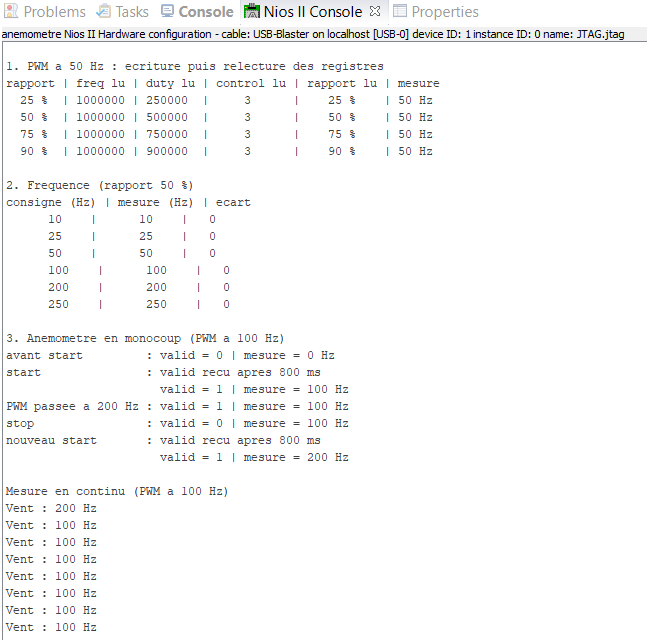
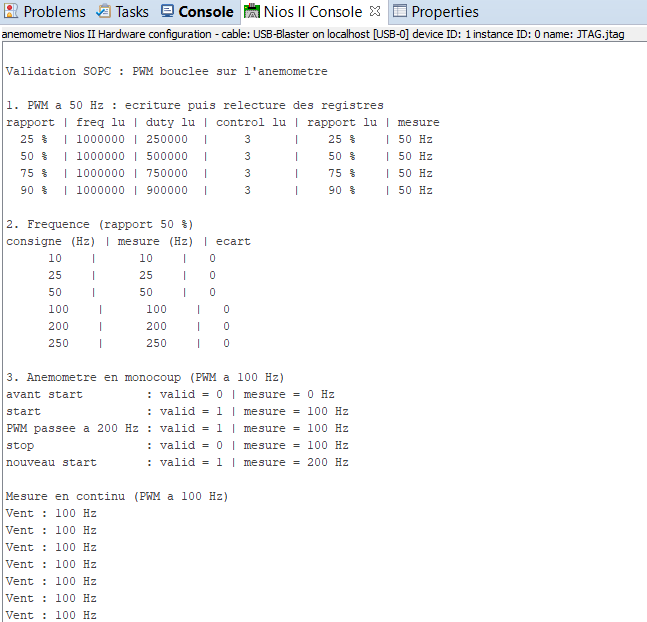
BE 2026 : monocoup sans artefact et console finale
- main.c : attente du filtre anti-rebond apres la remise a zero, plus d'affichage du temps
- Compte rendu : nouvelle console, comportement des LED pendant le test

Changed region(s): [[0.0, 0.0, 1.0, 1.0]]

diff --git a/BE_2026/SOPC/main.c b/BE_2026/SOPC/main.c
@@ -58,8 +58,8 @@ unsigned int mesurer(void)
     return *ane_code & ANE_DATA;
 }
 
-/* attend le bit valid (100 ms par essai, 3 s au plus) et renvoie le temps en ms */
-int attendre_valid(void)
+/* attend le bit valid (3 s au plus) */
+void attendre_valid(void)
 {
     int n = 0;
 
@@ -67,7 +67,6 @@ int attendre_valid(void)
         usleep(100000);
         n++;
     }
-    return n * 100;
 }
 
 void afficher_code(const char *texte)
@@ -85,7 +84,7 @@ int main()
     unsigned int rapports[4]  = {25, 50, 75, 90};
     unsigned int consignes[6] = {10, 25, 50, 100, 200, 250};
     unsigned int freq_lu, duty_lu, control_lu, mesure;
-    int i, temps;
+    int i;
 
     alt_putstr("\nValidation SOPC : PWM bouclee sur l'anemometre\n");
 
@@ -138,14 +137,13 @@ int main()
     *ane_config = 0;
     usleep(1000);
     *ane_config = ANE_RAZ_N;
+    usleep(10000);                        /* le filtre anti-rebond (1 ms) se cale sur l'entree */
     (void)*ane_code;                      /* efface un valid memorise */
     afficher_code("avant start         : ");
 
     *ane_config = ANE_RAZ_N | ANE_START_STOP;
-    temps = attendre_valid();
-    afficher("start               : valid recu apres ", temps);
-    alt_putstr(" ms\n");
-    afficher_code("                      ");
+    attendre_valid();
+    afficher_code("start               : ");
 
     regler_pwm(200, 50);
     usleep(2500000);
@@ -157,16 +155,15 @@ int main()
     afficher_code("stop                : ");
 
     *ane_config = ANE_RAZ_N | ANE_START_STOP;
-    temps = attendre_valid();
-    afficher("nouveau start       : valid recu apres ", temps);
-    alt_putstr(" ms\n");
-    afficher_code("                      ");
+    attendre_valid();
+    afficher_code("nouveau start       : ");
 
     /* 4. Retour en continu */
     alt_putstr("\nMesure en continu (PWM a 100 Hz)\n");
 
-    *ane_config = ANE_RAZ_N | ANE_CONTINU;
     regler_pwm(100, 50);
+    *ane_config = ANE_RAZ_N | ANE_CONTINU;
+    (void)*ane_code;                      /* efface le valid de la mesure monocoup */
 
     while (1) {
 

diff --git a/BE_2026/README.md b/BE_2026/README.md
@@ -54,13 +54,12 @@ et 0 quand le PWM est arrêté.
 2. **Fréquence** : la mesure égale la consigne de 10 à 250 Hz.
 3. **Monocoup** : `valid` vaut 0 avant le start et passe à 1 après la fenêtre de mesure.
    La mesure ne change plus ensuite (100 Hz alors que le PWM est passé à 200 Hz), `valid`
-   revient à 0 au stop, et un nouveau start donne 200 Hz. Le temps affiché (800 ms) est
-   approximatif : `usleep` est une boucle d'attente logicielle, le SOPC n'ayant pas de
-   timer. La fenêtre de mesure dure exactement 1 s (50 000 000 coups d'horloge).
-4. **Continu** : la première ligne reprend la dernière mesure du monocoup, puis la mesure
-   suit le PWM à 100 Hz.
+   revient à 0 au stop, et un nouveau start donne 200 Hz.
+4. **Continu** : la mesure suit le PWM à 100 Hz.
 
-Les LED affichent la mesure en binaire, LED7 à gauche et LED0 à droite :
+Les LED affichent la mesure en binaire, LED7 à gauche et LED0 à droite. Elles changent à
+chaque fin de fenêtre d'une seconde : quand la fréquence change en cours de fenêtre, elles
+montrent pendant une seconde une valeur intermédiaire, puis la nouvelle mesure.
 
 | 100 Hz = `0110 0100` | 250 Hz = `1111 1010` |
 |---|---|
